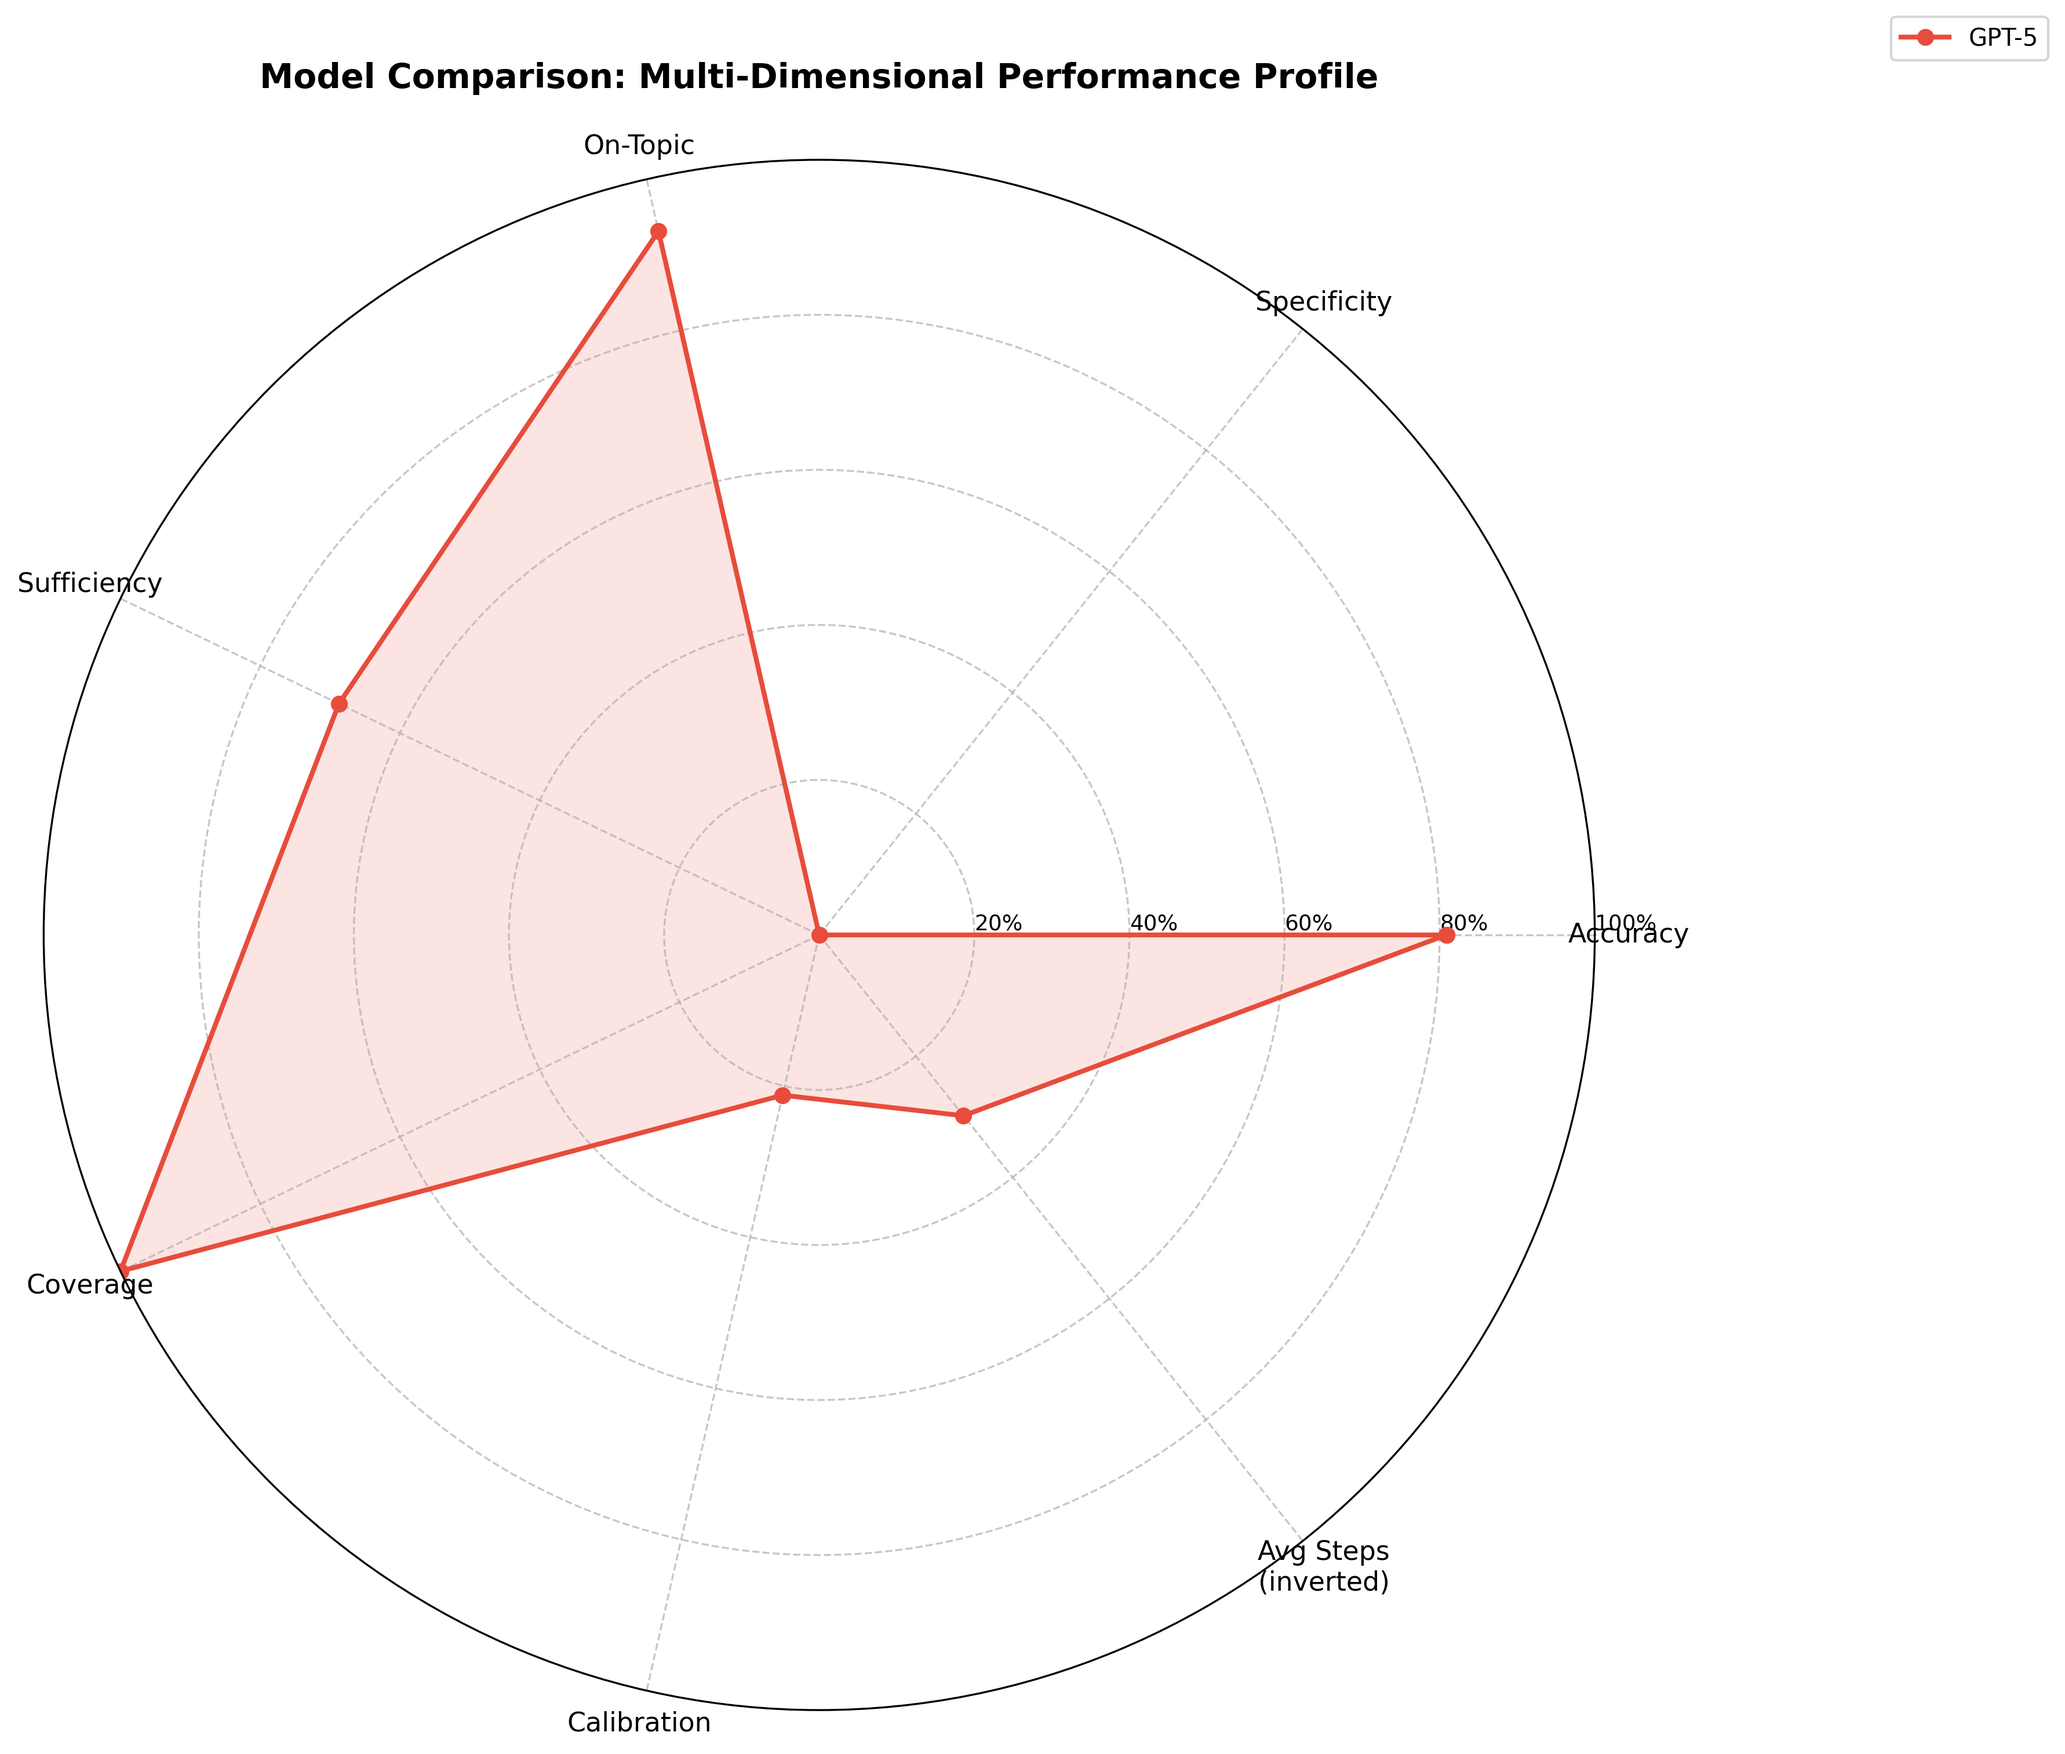
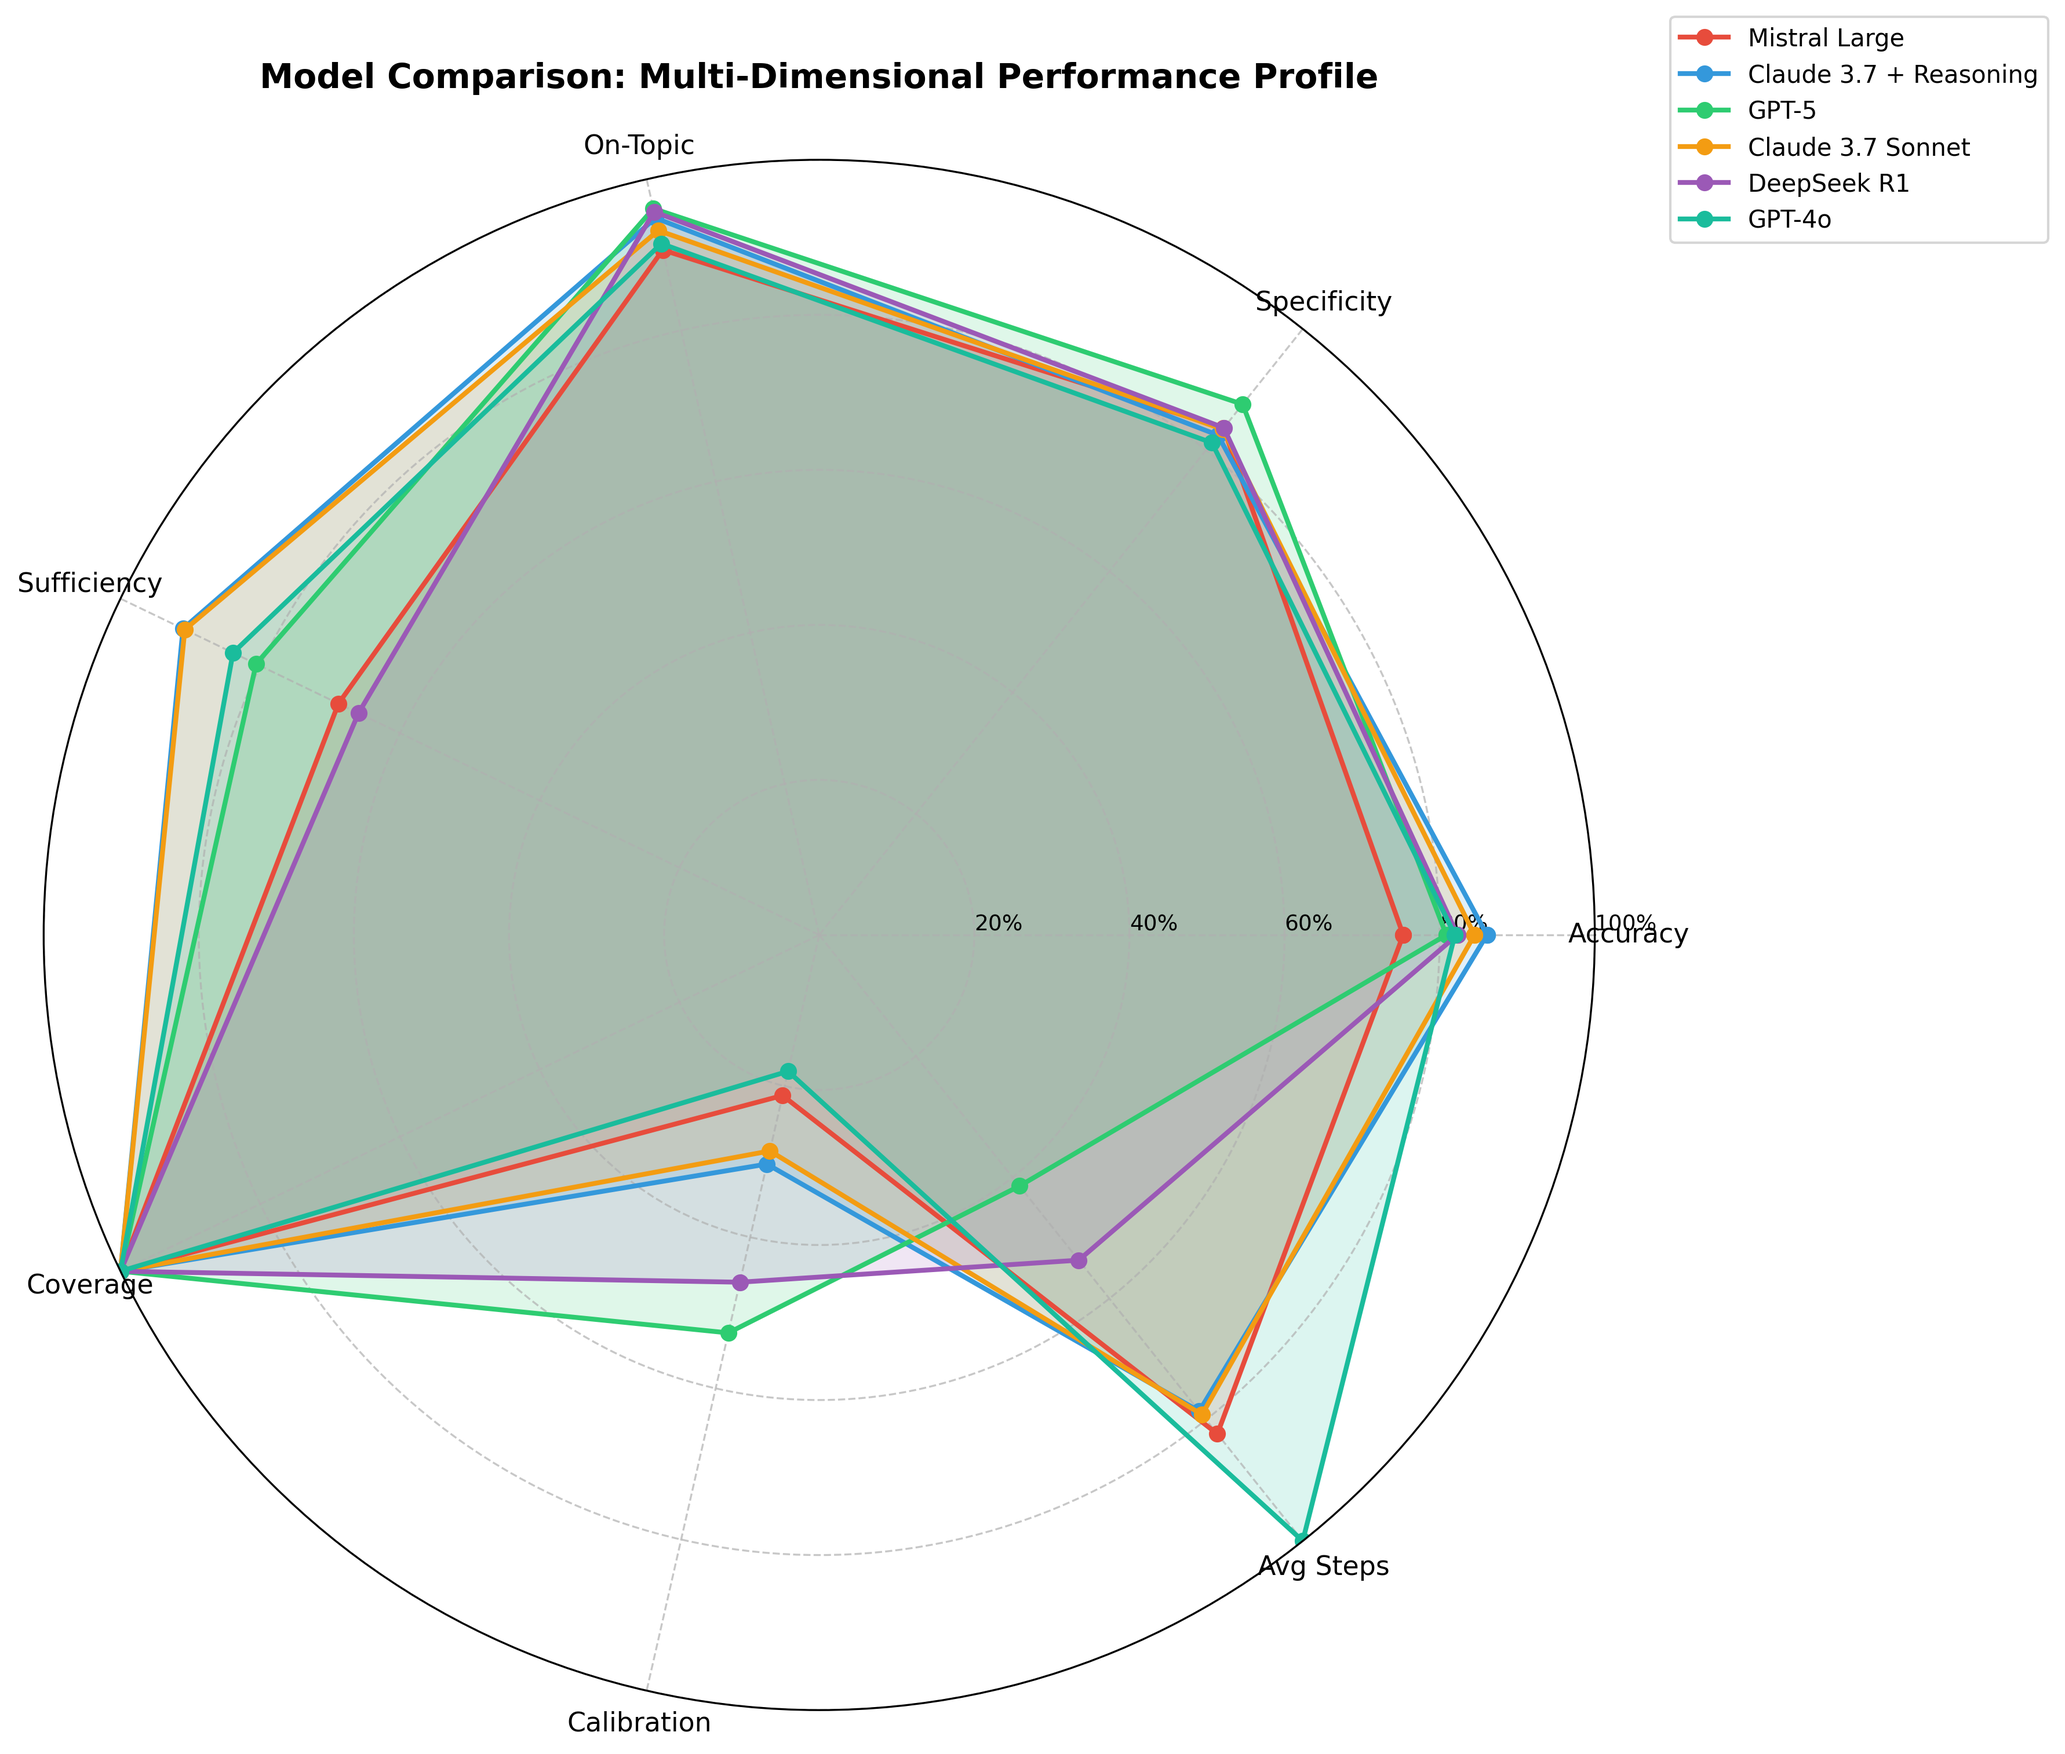
radar plot changed

diff --git a/src/rag_analysis/advanced_plots/2_model_comparison_radar.py b/src/rag_analysis/advanced_plots/2_model_comparison_radar.py
@@ -6,12 +6,45 @@ import matplotlib.pyplot as plt
 import numpy as np
 from pathlib import Path
 from collections import defaultdict
-from advanced_utils import (
+import sys
+
+# Add parent directory to path
+sys.path.insert(0, str(Path(__file__).resolve().parents[1]))
+from cross_system_plots.cross_system_utils import (
     load_all_judgments, 
     create_merged_dataset,
     normalize_model_name,
-    load_accuracy_from_csv
+    extract_model_from_filename
 )
+
+
+def load_accuracy_from_csv(csv_file):
+    """Load accuracy data from reverify_accuracies.csv file."""
+    import csv
+    accuracy_map = {}
+    
+    if not csv_file.exists():
+        print(f"Warning: {csv_file} not found")
+        return accuracy_map
+    
+    with open(csv_file, 'r') as f:
+        reader = csv.DictReader(f)
+        for row in reader:
+            folder = row.get('folder', '')
+            if folder != 'Iterative-RAG':
+                continue
+            
+            file_name = row.get('file_name', '')
+            accuracy = float(row.get('accuracy', 0)) * 100  # Convert to percentage
+            
+            # Extract model name from file name
+            model_name = file_name.replace('responses_', '').replace('_reverified.jsonl', '')
+            model_name = model_name.replace('bedrock_', '').replace('openai_', '')
+            model_name = normalize_model_name(model_name)
+            
+            accuracy_map[model_name] = accuracy
+    
+    return accuracy_map
 
 
 def calculate_model_metrics(merged_data, accuracy_map):
@@ -25,7 +58,6 @@ def calculate_model_metrics(merged_data, accuracy_map):
         'sufficient': 0,
         'good_coverage': 0,
         'calibrated': 0,
-        'accuracy': 0.0
     })
     
     for rec in merged_data:
@@ -41,11 +73,15 @@ def calculate_model_metrics(merged_data, accuracy_map):
         per_step = quality.get('per_step', [])
         if per_step:
             stats['steps'].append(len(per_step))
-        
-        # Specificity
-        specificity = quality.get('overall_specificity', 0)
-        if specificity > 0:
-            stats['specificity'].append(specificity)
+            
+            # Specificity - average across all steps
+            step_specificities = []
+            for step in per_step:
+                spec = step.get('query_quality', {}).get('specificity_score', 0)
+                if spec > 0:
+                    step_specificities.append(spec)
+            if step_specificities:
+                stats['specificity'].append(np.mean(step_specificities))
         
         # On-topic (not off-topic in any step)
         is_on_topic = True
@@ -107,12 +143,8 @@ def create_radar_chart(model_metrics):
         'Sufficiency',
         'Coverage',
         'Calibration',
-        'Avg Steps\n(inverted)'
+        'Avg Steps'
     ]
-    
-    # Normalize avg_steps: invert so that lower steps = higher score
-    # Max steps observed ~4, so we'll use (5 - steps) / 5 * 100
-    max_steps = 5
     
     # Prepare data
     models = list(model_metrics.keys())
@@ -131,11 +163,15 @@ def create_radar_chart(model_metrics):
         '#9b59b6', '#1abc9c', '#e67e22', '#34495e'
     ]
     
+    # Find max steps for normalization
+    max_steps = max(metrics['avg_steps'] for metrics in model_metrics.values())
+    
     # Plot each model
     for idx, model in enumerate(models):
         metrics = model_metrics[model]
         
-        # Extract values (all as percentages 0-100)
+        # Extract values
+        # Normalize steps to 0-100 scale for radar chart
         values = [
             metrics['accuracy'],
             metrics['specificity'],
@@ -143,7 +179,7 @@ def create_radar_chart(model_metrics):
             metrics['sufficiency_rate'],
             metrics['coverage_rate'],
             metrics['calibration_rate'],
-            ((max_steps - metrics['avg_steps']) / max_steps) * 100,  # Inverted steps
+            (metrics['avg_steps'] / max_steps) * 100,  # Normalize to 0-100
         ]
         
         # Complete the circle
@@ -187,13 +223,15 @@ def create_radar_chart(model_metrics):
 
 def main():
     output_dir = Path('/media/torontoai/Iterative-rag/src/rag_analysis/output')
-    csv_dir = Path('/media/torontoai/Iterative-rag/src/results/new_results_csv')
+    csv_file = Path('/media/torontoai/Iterative-rag/src/results/reverify_accuracies.csv')
     
     print("Loading accuracy from CSV...")
-    accuracy_map = load_accuracy_from_csv(csv_dir)
+    accuracy_map = load_accuracy_from_csv(csv_file)
     print(f"Loaded accuracy for {len(accuracy_map)} models")
+    for model, acc in accuracy_map.items():
+        print(f"  {model}: {acc:.2f}%")
     
-    print("Loading all judgments...")
+    print("\nLoading all judgments...")
     coverage, quality, hallucination = load_all_judgments(output_dir)
     
     print(f"Loaded: {len(coverage)} coverage, {len(quality)} quality, {len(hallucination)} hallucination")
